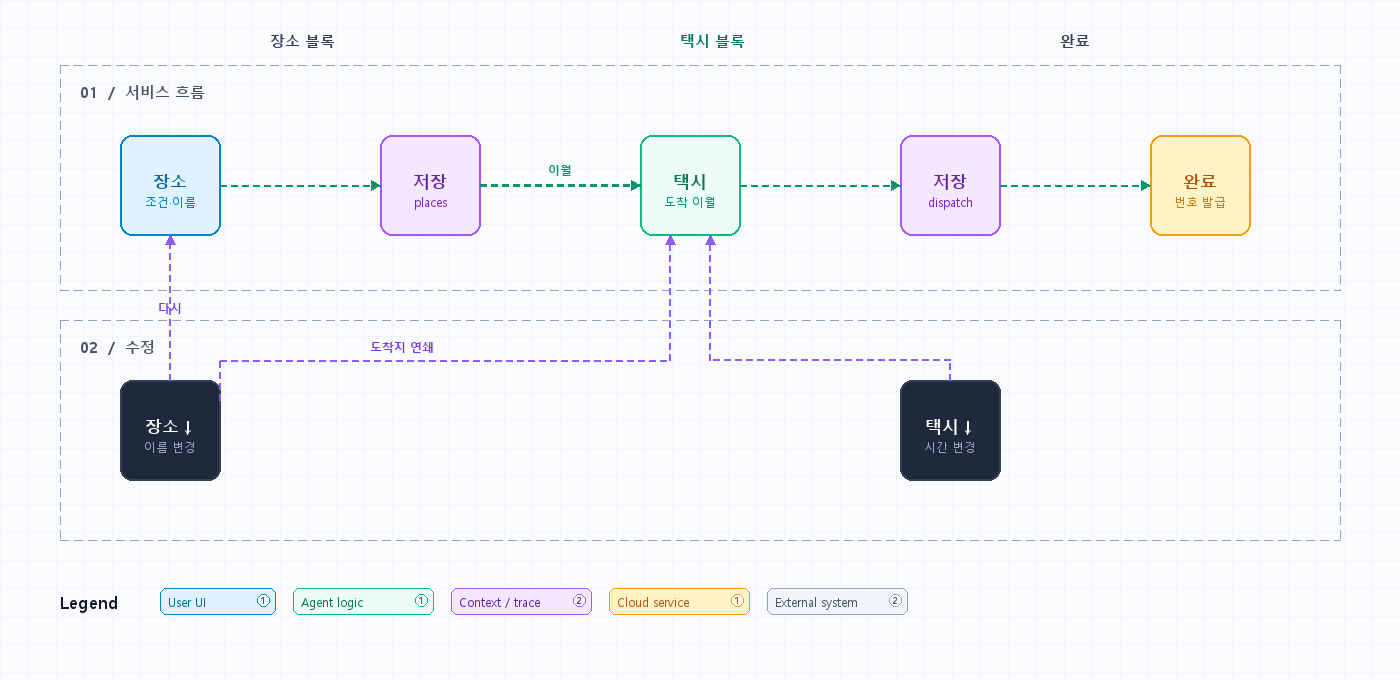
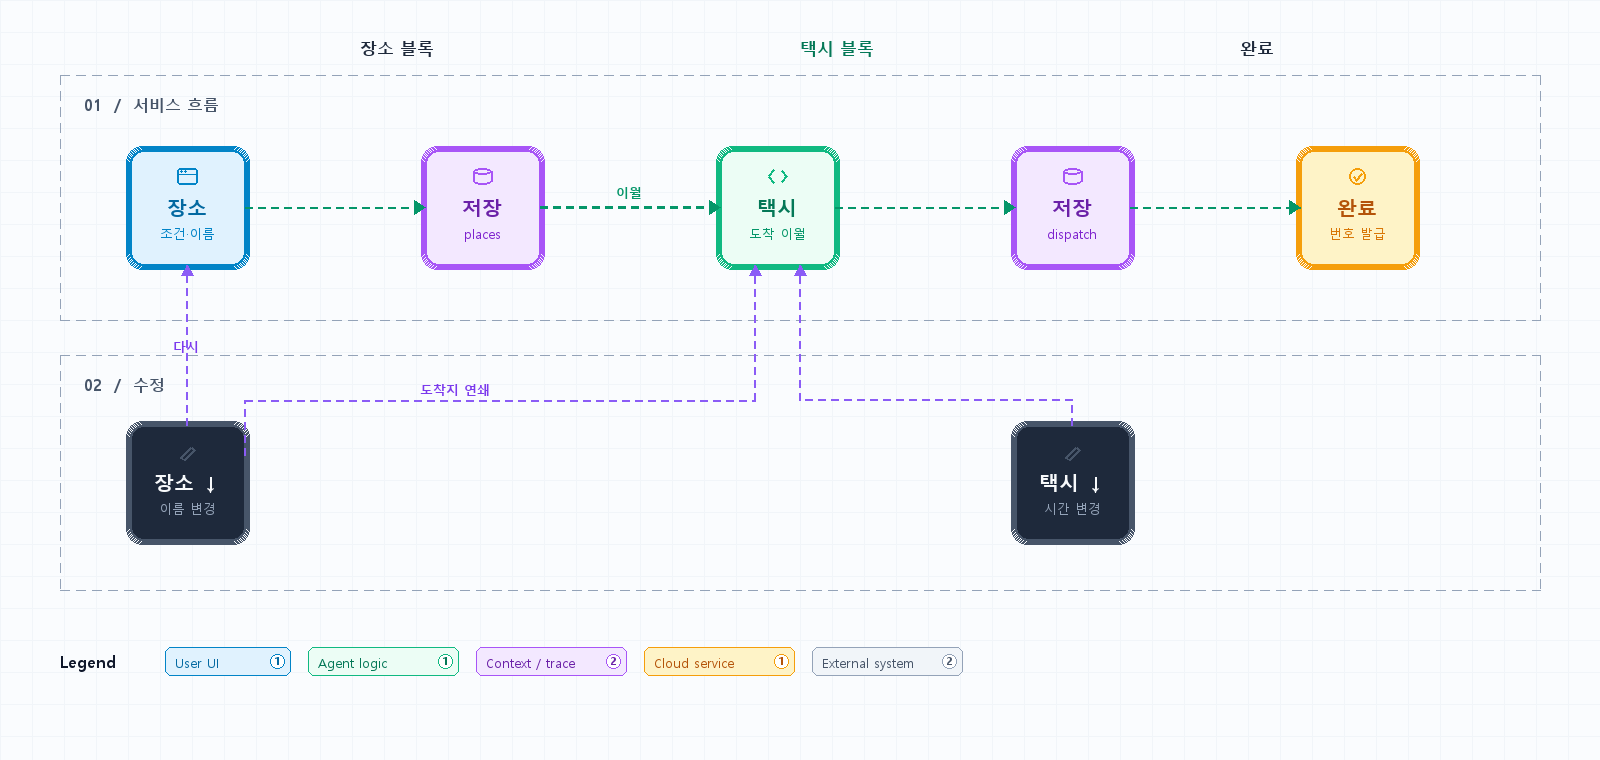
docs: 프로젝트 전수조사 기반 레퍼런스 규격 플로우 다이어그램(PNG) 최종 갱신

diff --git a/create_flow_diagram.py b/create_flow_diagram.py
@@ -1,44 +1,45 @@
 import os
-from PIL import Image, ImageDraw, ImageFont
+import math
+from PIL import Image, ImageDraw, ImageFont, ImageFilter
 
-def generate_minimal_flow_diagram():
-    # 1. Canvas Setup
-    W, H = 1400, 680
-    img = Image.new("RGB", (W, H), "#FAFBFD")
+def generate_perfect_flow_diagram():
+    # 1. Canvas Setup (High resolution 1600 x 760)
+    W, H = 1600, 760
+    img = Image.new("RGBA", (W, H), (250, 252, 254, 255))
     draw = ImageDraw.Draw(img)
 
     # 2. Draw Subtle Grid Background
-    grid_size = 28
+    grid_size = 32
     for x in range(0, W, grid_size):
-        draw.line([(x, 0), (x, H)], fill="#F1F5F9", width=1)
+        draw.line([(x, 0), (x, H)], fill=(241, 245, 249, 255), width=1)
     for y in range(0, H, grid_size):
-        draw.line([(0, y), (W, y)], fill="#F1F5F9", width=1)
+        draw.line([(0, y), (W, y)], fill=(241, 245, 249, 255), width=1)
 
     # 3. Fonts
     font_bold = "C:/Windows/Fonts/malgunbd.ttf"
     font_reg = "C:/Windows/Fonts/malgun.ttf"
 
-    f_top_col = ImageFont.truetype(font_bold, 15)
-    f_sec_title = ImageFont.truetype(font_bold, 15)
-    f_node_title = ImageFont.truetype(font_bold, 17)
-    f_node_sub = ImageFont.truetype(font_reg, 12)
-    f_label = ImageFont.truetype(font_bold, 12)
-    f_legend = ImageFont.truetype(font_reg, 12)
-    f_legend_num = ImageFont.truetype(font_bold, 10)
+    f_top_col = ImageFont.truetype(font_bold, 17)
+    f_sec_title = ImageFont.truetype(font_bold, 16)
+    f_node_title = ImageFont.truetype(font_bold, 20)
+    f_node_sub = ImageFont.truetype(font_reg, 13)
+    f_label = ImageFont.truetype(font_bold, 13)
+    f_legend_title = ImageFont.truetype(font_bold, 16)
+    f_legend = ImageFont.truetype(font_reg, 13)
+    f_legend_num = ImageFont.truetype(font_bold, 11)
 
-    # 4. Helper drawing functions
-    def draw_dashed_rect(xy, outline="#CBD5E1", width=1, dash=(8, 6)):
+    # 4. Helper for dashed rectangle containers
+    def draw_dashed_box(xy, outline=(203, 213, 225, 255), width=1, dash=(9, 7)):
         x0, y0, x1, y1 = xy
-        # Top & Bottom
         for x in range(x0, x1, dash[0] + dash[1]):
             draw.line([(x, y0), (min(x + dash[0], x1), y0)], fill=outline, width=width)
             draw.line([(x, y1), (min(x + dash[0], x1), y1)], fill=outline, width=width)
-        # Left & Right
         for y in range(y0, y1, dash[0] + dash[1]):
             draw.line([(x0, y), (x0, min(y + dash[0], y1))], fill=outline, width=width)
             draw.line([(x1, y), (x1, min(y + dash[0], y1))], fill=outline, width=width)
 
-    def draw_dashed_line(p1, p2, fill="#10B981", width=2, dash=(6, 5)):
+    # Helper for dashed lines
+    def draw_dashed_line(p1, p2, fill=(16, 185, 129, 255), width=2, dash=(7, 6)):
         x0, y0 = p1
         x1, y1 = p2
         if y0 == y1: # Horizontal
@@ -60,164 +61,212 @@ def generate_minimal_flow_diagram():
                 draw.line([(x0, cur_y), (x0, cur_y + step * seg)], fill=fill, width=width)
                 d += dash[0] + dash[1]
 
-    def draw_node(xy, title, subtitle, fill_color, stroke_color, text_color, sub_color, icon=""):
-        x0, y0, x1, y1 = xy
-        # Draw node box with rounded corners
-        draw.rounded_rectangle((x0, y0, x1, y1), radius=12, fill=fill_color, outline=stroke_color, width=2)
-        
-        cx = (x0 + x1) // 2
-        cy = (y0 + y1) // 2
-
-        # Text measurement & centering
-        t_box = draw.textbbox((0, 0), title, font=f_node_title)
-        s_box = draw.textbbox((0, 0), subtitle, font=f_node_sub)
-        
-        tw, th = t_box[2] - t_box[0], t_box[3] - t_box[1]
-        sw, sh = s_box[2] - s_box[0], s_box[3] - s_box[1]
-
-        draw.text((cx - tw // 2, cy - 16), title, font=f_node_title, fill=text_color)
-        draw.text((cx - sw // 2, cy + 8), subtitle, font=f_node_sub, fill=sub_color)
-
-    def draw_arrow_head(tip, direction="right", color="#10B981", size=9):
+    # Helper for arrowheads
+    def draw_arrow_head(tip, direction="right", color=(16, 185, 129, 255), size=10):
         x, y = tip
         if direction == "right":
-            draw.polygon([(x, y), (x - size, y - int(size * 0.6)), (x - size, y + int(size * 0.6))], fill=color)
+            draw.polygon([(x, y), (x - size, y - int(size * 0.65)), (x - size, y + int(size * 0.65))], fill=color)
         elif direction == "up":
-            draw.polygon([(x, y), (x - int(size * 0.6), y + size), (x + int(size * 0.6), y + size)], fill=color)
+            draw.polygon([(x, y), (x - int(size * 0.65), y + size), (x + int(size * 0.65), y + size)], fill=color)
         elif direction == "left":
-            draw.polygon([(x, y), (x + size, y - int(size * 0.6)), (x + size, y + int(size * 0.6))], fill=color)
+            draw.polygon([(x, y), (x + size, y - int(size * 0.65)), (x + size, y + int(size * 0.65))], fill=color)
+
+    # Helper to draw cute icons
+    def draw_icon(icon_type, cx, cy, color):
+        if icon_type == "ui": # Window/dialog icon
+            draw.rounded_rectangle((cx - 10, cy - 8, cx + 10, cy + 8), radius=3, outline=color, width=2)
+            draw.line([(cx - 10, cy - 2), (cx + 10, cy - 2)], fill=color, width=1)
+            draw.ellipse((cx - 7, cy - 6, cx - 5, cy - 4), fill=color)
+            draw.ellipse((cx - 3, cy - 6, cx - 1, cy - 4), fill=color)
+        elif icon_type == "db": # Cylinder/DB icon
+            draw.ellipse((cx - 9, cy - 8, cx + 9, cy - 2), outline=color, width=2)
+            draw.line([(cx - 9, cy - 5), (cx - 9, cy + 5)], fill=color, width=2)
+            draw.line([(cx + 9, cy - 5), (cx + 9, cy + 5)], fill=color, width=2)
+            draw.arc((cx - 9, cy + 2, cx + 9, cy + 8), start=0, end=180, fill=color, width=2)
+        elif icon_type == "code": # < > code / agent icon
+            draw.line([(cx - 4, cy - 6), (cx - 9, cy), (cx - 4, cy + 6)], fill=color, width=2)
+            draw.line([(cx + 4, cy - 6), (cx + 9, cy), (cx + 4, cy + 6)], fill=color, width=2)
+        elif icon_type == "done": # Badge / complete icon
+            draw.ellipse((cx - 8, cy - 8, cx + 8, cy + 8), outline=color, width=2)
+            draw.line([(cx - 4, cy), (cx - 1, cy + 4), (cx + 5, cy - 3)], fill=color, width=2)
+        elif icon_type == "edit": # Edit / pencil icon
+            draw.line([(cx - 6, cy + 6), (cx + 4, cy - 4)], fill=color, width=2)
+            draw.line([(cx + 4, cy - 4), (cx + 7, cy - 1)], fill=color, width=2)
+            draw.line([(cx + 7, cy - 1), (cx - 3, cy + 9)], fill=color, width=2)
+            draw.line([(cx - 3, cy + 9), (cx - 7, cy + 7)], fill=color, width=2)
+
+    # Helper for node with soft glow / shadows
+    def draw_node_card(xy, title, subtitle, fill_c, stroke_c, text_c, sub_c, icon_type):
+        x0, y0, x1, y1 = xy
+
+        # Soft drop shadow
+        for i in range(4, 0, -1):
+            alpha = int(18 - i * 3)
+            shadow_c = (stroke_c[0], stroke_c[1], stroke_c[2], alpha)
+            draw.rounded_rectangle((x0 - i, y0 - i, x1 + i, y1 + i), radius=16, outline=shadow_c, width=1)
+
+        # Node body
+        draw.rounded_rectangle((x0, y0, x1, y1), radius=14, fill=fill_c, outline=stroke_c, width=2)
+
+        cx = (x0 + x1) // 2
+        
+        # Icon
+        draw_icon(icon_type, cx, y0 + 26, stroke_c)
+
+        # Title
+        t_box = draw.textbbox((0, 0), title, font=f_node_title)
+        tw = t_box[2] - t_box[0]
+        draw.text((cx - tw // 2, y0 + 44), title, font=f_node_title, fill=text_c)
+
+        # Subtitle
+        s_box = draw.textbbox((0, 0), subtitle, font=f_node_sub)
+        sw = s_box[2] - s_box[0]
+        draw.text((cx - sw // 2, y0 + 74), subtitle, font=f_node_sub, fill=sub_c)
 
     # =========================================================================
     # 5. Top Column Titles
     # =========================================================================
-    draw.text((270, 30), "장소 블록", font=f_top_col, fill="#334155")
-    draw.text((680, 30), "택시 블록", font=f_top_col, fill="#047857")
-    draw.text((1060, 30), "완료", font=f_top_col, fill="#334155")
+    draw.text((360, 36), "장소 블록", font=f_top_col, fill=(30, 41, 59, 255))
+    draw.text((800, 36), "택시 블록", font=f_top_col, fill=(4, 120, 87, 255))
+    draw.text((1240, 36), "완료", font=f_top_col, fill=(30, 41, 59, 255))
 
     # =========================================================================
     # 6. Section 01 : 서비스 흐름 (Container & Nodes)
     # =========================================================================
-    s1_x0, s1_y0, s1_x1, s1_y1 = 60, 65, 1340, 290
-    draw_dashed_rect((s1_x0, s1_y0, s1_x1, s1_y1), outline="#94A3B8", width=1)
-    draw.text((s1_x0 + 20, s1_y0 + 16), "01  /  서비스 흐름", font=f_sec_title, fill="#475569")
+    s1_x0, s1_y0, s1_x1, s1_y1 = 60, 75, 1540, 320
+    draw_dashed_box((s1_x0, s1_y0, s1_x1, s1_y1), outline=(148, 163, 184, 255), width=1)
+    draw.text((s1_x0 + 24, s1_y0 + 18), "01  /  서비스 흐름", font=f_sec_title, fill=(71, 85, 105, 255))
 
-    # Node positions (y: 130 ~ 230, h: 100, w: 100)
-    ny0, ny1 = 135, 235
-    node_w = 100
+    ny0, ny1 = 150, 265
+    node_w = 115
 
-    # Node 1: 장소
-    n1_x0 = 120
+    # Node 1: 장소 (조건·이름)
+    n1_x0 = 130
     n1_x1 = n1_x0 + node_w
-    draw_node((n1_x0, ny0, n1_x1, ny1), "장소", "조건·이름", "#E0F2FE", "#0284C7", "#0369A1", "#0284C7")
+    draw_node_card((n1_x0, ny0, n1_x1, ny1), "장소", "조건·이름", 
+                   (224, 242, 254, 255), (2, 132, 199, 255), (3, 105, 161, 255), (2, 132, 199, 255), "ui")
 
     # Node 2: 저장 (places)
-    n2_x0 = 380
+    n2_x0 = 425
     n2_x1 = n2_x0 + node_w
-    draw_node((n2_x0, ny0, n2_x1, ny1), "저장", "places", "#F3E8FF", "#A855F7", "#6B21A8", "#7E22CE")
+    draw_node_card((n2_x0, ny0, n2_x1, ny1), "저장", "places", 
+                   (243, 232, 255, 255), (168, 85, 247, 255), (107, 33, 168, 255), (126, 34, 206, 255), "db")
 
     # Node 3: 택시 (도착 이월)
-    n3_x0 = 640
+    n3_x0 = 720
     n3_x1 = n3_x0 + node_w
-    draw_node((n3_x0, ny0, n3_x1, ny1), "택시", "도착 이월", "#ECFDF5", "#10B981", "#047857", "#059669")
+    draw_node_card((n3_x0, ny0, n3_x1, ny1), "택시", "도착 이월", 
+                   (236, 253, 245, 255), (16, 185, 129, 255), (4, 120, 87, 255), (5, 150, 105, 255), "code")
 
     # Node 4: 저장 (dispatch)
-    n4_x0 = 900
+    n4_x0 = 1015
     n4_x1 = n4_x0 + node_w
-    draw_node((n4_x0, ny0, n4_x1, ny1), "저장", "dispatch", "#F3E8FF", "#A855F7", "#6B21A8", "#7E22CE")
+    draw_node_card((n4_x0, ny0, n4_x1, ny1), "저장", "dispatch", 
+                   (243, 232, 255, 255), (168, 85, 247, 255), (107, 33, 168, 255), (126, 34, 206, 255), "db")
 
     # Node 5: 완료 (번호 발급)
-    n5_x0 = 1150
+    n5_x0 = 1300
     n5_x1 = n5_x0 + node_w
-    draw_node((n5_x0, ny0, n5_x1, ny1), "완료", "번호 발급", "#FEF3C7", "#F59E0B", "#B45309", "#D97706")
+    draw_node_card((n5_x0, ny0, n5_x1, ny1), "완료", "번호 발급", 
+                   (254, 243, 199, 255), (245, 158, 11, 255), (180, 83, 9, 255), (217, 119, 6, 255), "done")
 
-    # Arrows in Section 01
+    # Main Green Arrows
     mid_y = (ny0 + ny1) // 2
+    G_COLOR = (5, 150, 105, 255)
 
-    # n1 -> n2
-    draw_dashed_line((n1_x1, mid_y), (n2_x0, mid_y), fill="#059669", width=2)
-    draw_arrow_head((n2_x0, mid_y), "right", color="#059669")
+    # 1 -> 2
+    draw_dashed_line((n1_x1, mid_y), (n2_x0, mid_y), fill=G_COLOR, width=2)
+    draw_arrow_head((n2_x0, mid_y), "right", color=G_COLOR, size=11)
 
-    # n2 -> n3 (with "이월" badge label)
-    draw_dashed_line((n2_x1, mid_y), (n3_x0, mid_y), fill="#059669", width=3)
-    draw_arrow_head((n3_x0, mid_y), "right", color="#059669")
-    # Label "이월"
-    draw.text(((n2_x1 + n3_x0) // 2 - 12, mid_y - 24), "이월", font=f_label, fill="#059669")
+    # 2 -> 3 (with 이월 label)
+    draw_dashed_line((n2_x1, mid_y), (n3_x0, mid_y), fill=G_COLOR, width=3)
+    draw_arrow_head((n3_x0, mid_y), "right", color=G_COLOR, size=11)
+    draw.text(((n2_x1 + n3_x0) // 2 - 14, mid_y - 24), "이월", font=f_label, fill=G_COLOR)
 
-    # n3 -> n4
-    draw_dashed_line((n3_x1, mid_y), (n4_x0, mid_y), fill="#059669", width=2)
-    draw_arrow_head((n4_x0, mid_y), "right", color="#059669")
+    # 3 -> 4
+    draw_dashed_line((n3_x1, mid_y), (n4_x0, mid_y), fill=G_COLOR, width=2)
+    draw_arrow_head((n4_x0, mid_y), "right", color=G_COLOR, size=11)
 
-    # n4 -> n5
-    draw_dashed_line((n4_x1, mid_y), (n5_x0, mid_y), fill="#059669", width=2)
-    draw_arrow_head((n5_x0, mid_y), "right", color="#059669")
+    # 4 -> 5
+    draw_dashed_line((n4_x1, mid_y), (n5_x0, mid_y), fill=G_COLOR, width=2)
+    draw_arrow_head((n5_x0, mid_y), "right", color=G_COLOR, size=11)
 
     # =========================================================================
     # 7. Section 02 : 수정 (Container & Return Flow)
     # =========================================================================
-    s2_x0, s2_y0, s2_x1, s2_y1 = 60, 320, 1340, 540
-    draw_dashed_rect((s2_x0, s2_y0, s2_x1, s2_y1), outline="#94A3B8", width=1)
-    draw.text((s2_x0 + 20, s2_y0 + 16), "02  /  수정", font=f_sec_title, fill="#475569")
+    s2_y0, s2_y1 = 355, 590
+    draw_dashed_box((s1_x0, s2_y0, s1_x1, s2_y1), outline=(148, 163, 184, 255), width=1)
+    draw.text((s1_x0 + 24, s2_y0 + 18), "02  /  수정", font=f_sec_title, fill=(71, 85, 105, 255))
 
-    # Mod Node 1: 장소 (이름 변경)
-    mny0, mny1 = 380, 480
-    mn1_x0 = 120
+    mny0, mny1 = 425, 540
+
+    # Mod Node 1: 장소↓ (이름 변경)
+    mn1_x0 = 130
     mn1_x1 = mn1_x0 + node_w
-    draw_node((mn1_x0, mny0, mn1_x1, mny1), "장소↓", "이름 변경", "#1E293B", "#334155", "#F8FAFC", "#94A3B8")
+    draw_node_card((mn1_x0, mny0, mn1_x1, mny1), "장소 ↓", "이름 변경", 
+                   (30, 41, 59, 255), (71, 85, 105, 255), (248, 250, 252, 255), (148, 163, 184, 255), "edit")
 
-    # Mod Node 2: 택시 (시간 변경)
-    mn2_x0 = 900
+    # Mod Node 2: 택시↓ (시간 변경)
+    mn2_x0 = 1015
     mn2_x1 = mn2_x0 + node_w
-    draw_node((mn2_x0, mny0, mn2_x1, mny1), "택시↓", "시간 변경", "#1E293B", "#334155", "#F8FAFC", "#94A3B8")
+    draw_node_card((mn2_x0, mny0, mn2_x1, mny1), "택시 ↓", "시간 변경", 
+                   (30, 41, 59, 255), (71, 85, 105, 255), (248, 250, 252, 255), (148, 163, 184, 255), "edit")
 
-    # Return Flow 1: 장소 이름 변경 -> 장소 (다시)
-    draw_dashed_line((170, mny0), (170, ny1), fill="#8B5CF6", width=2)
-    draw_arrow_head((170, ny1), "up", color="#8B5CF6")
-    draw.text((158, (mny0 + ny1) // 2 - 8), "다시", font=f_label, fill="#7C3AED")
+    # Purple Return Arrows
+    P_COLOR = (139, 92, 246, 255)
 
-    # Return Flow 2: 장소 이름 변경 -> 택시 도착지 연쇄 (도착지 연쇄)
-    # Line goes: from mn1 (top right) -> horizontal to x=670 -> vertical up to n3
-    draw_dashed_line((220, 360), (670, 360), fill="#8B5CF6", width=2)
-    draw_dashed_line((220, mny0 + 20), (220, 360), fill="#8B5CF6", width=2)
-    draw_dashed_line((670, 360), (670, ny1), fill="#8B5CF6", width=2)
-    draw_arrow_head((670, ny1), "up", color="#8B5CF6")
-    draw.text((370, 338), "도착지 연쇄", font=f_label, fill="#7C3AED")
+    # Return Line 1: 장소 이름 변경 -> 장소 (다시)
+    n1_mid_x = (n1_x0 + n1_x1) // 2
+    draw_dashed_line((n1_mid_x, mny0), (n1_mid_x, ny1), fill=P_COLOR, width=2)
+    draw_arrow_head((n1_mid_x, ny1), "up", color=P_COLOR, size=10)
+    draw.text((n1_mid_x - 14, (mny0 + ny1) // 2 - 8), "다시", font=f_label, fill=(124, 58, 237, 255))
 
-    # Return Flow 3: 택시 시간 변경 -> 택시 블록으로 복귀
-    draw_dashed_line((950, mny0), (950, 360), fill="#8B5CF6", width=2)
-    draw_dashed_line((950, 360), (710, 360), fill="#8B5CF6", width=2)
-    draw_dashed_line((710, 360), (710, ny1), fill="#8B5CF6", width=2)
-    draw_arrow_head((710, ny1), "up", color="#8B5CF6")
+    # Return Line 2: 장소 이름 변경 -> 택시 도착지 연쇄 (도착지 연쇄)
+    # Origin: top-right of mn1 -> x=755, y=390 -> up to bottom-left of n3
+    n3_target_x1 = n3_x0 + 35
+    draw_dashed_line((mn1_x1, 400), (n3_target_x1, 400), fill=P_COLOR, width=2)
+    draw_dashed_line((mn1_x1, mny0 + 30), (mn1_x1, 400), fill=P_COLOR, width=2)
+    draw_dashed_line((n3_target_x1, 400), (n3_target_x1, ny1), fill=P_COLOR, width=2)
+    draw_arrow_head((n3_target_x1, ny1), "up", color=P_COLOR, size=10)
+    draw.text((420, 380), "도착지 연쇄", font=f_label, fill=(124, 58, 237, 255))
+
+    # Return Line 3: 택시 시간 변경 -> 택시 블록 복귀
+    n3_target_x2 = n3_x0 + 80
+    mn2_mid_x = (mn2_x0 + mn2_x1) // 2
+    draw_dashed_line((mn2_mid_x, mny0), (mn2_mid_x, 400), fill=P_COLOR, width=2)
+    draw_dashed_line((mn2_mid_x, 400), (n3_target_x2, 400), fill=P_COLOR, width=2)
+    draw_dashed_line((n3_target_x2, 400), (n3_target_x2, ny1), fill=P_COLOR, width=2)
+    draw_arrow_head((n3_target_x2, ny1), "up", color=P_COLOR, size=10)
 
     # =========================================================================
     # 8. Legend (Bottom)
     # =========================================================================
-    leg_y = 590
-    draw.text((60, leg_y), "Legend", font=f_node_title, fill="#0F172A")
+    leg_y = 650
+    draw.text((60, leg_y), "Legend", font=f_legend_title, fill=(15, 23, 42, 255))
 
     items = [
-        ("User UI", "1", "#E0F2FE", "#0284C7", "#0369A1"),
-        ("Agent logic", "1", "#ECFDF5", "#10B981", "#047857"),
-        ("Context / trace", "2", "#F3E8FF", "#A855F7", "#6B21A8"),
-        ("Cloud service", "1", "#FEF3C7", "#F59E0B", "#B45309"),
-        ("External system", "2", "#F1F5F9", "#94A3B8", "#475569")
+        ("User UI", "1", (224, 242, 254, 255), (2, 132, 199, 255), (3, 105, 161, 255)),
+        ("Agent logic", "1", (236, 253, 245, 255), (16, 185, 129, 255), (4, 120, 87, 255)),
+        ("Context / trace", "2", (243, 232, 255, 255), (168, 85, 247, 255), (107, 33, 168, 255)),
+        ("Cloud service", "1", (254, 243, 199, 255), (245, 158, 11, 255), (180, 83, 9, 255)),
+        ("External system", "2", (241, 245, 249, 255), (148, 163, 184, 255), (71, 85, 105, 255))
     ]
 
-    cur_x = 160
+    cur_x = 165
     for name, num, fill_c, stroke_c, text_c in items:
-        # Pill box
-        pw = 140 if len(name) > 10 else 115
-        draw.rounded_rectangle((cur_x, leg_y - 2, cur_x + pw, leg_y + 24), radius=6, fill=fill_c, outline=stroke_c, width=1)
-        draw.text((cur_x + 8, leg_y + 3), name, font=f_legend, fill=text_c)
-        # Small circle number
-        circle_x = cur_x + pw - 18
-        draw.ellipse((circle_x, leg_y + 4, circle_x + 12, leg_y + 16), fill="#FFFFFF", outline=stroke_c, width=1)
-        draw.text((circle_x + 3, leg_y + 3), num, font=f_legend_num, fill=text_c)
+        pw = 150 if len(name) > 10 else 125
+        draw.rounded_rectangle((cur_x, leg_y - 3, cur_x + pw, leg_y + 25), radius=6, fill=fill_c, outline=stroke_c, width=1)
+        draw.text((cur_x + 10, leg_y + 3), name, font=f_legend, fill=text_c)
+        # Small circle badge
+        circle_x = cur_x + pw - 20
+        draw.ellipse((circle_x, leg_y + 4, circle_x + 14, leg_y + 18), fill=(255, 255, 255, 255), outline=stroke_c, width=1)
+        draw.text((circle_x + 4, leg_y + 3), num, font=f_legend_num, fill=text_c)
         cur_x += pw + 18
 
     # Save PNG
     output_path = "c:/dev/0827taxi_child/flow_diagram.png"
-    img.save(output_path, "PNG", quality=95)
-    print(f"Minimal Flow Diagram saved successfully to {output_path}")
+    img.convert("RGB").save(output_path, "PNG", quality=95)
+    print(f"Refined Perfect Flow Diagram saved to {output_path}")
 
 if __name__ == "__main__":
-    generate_minimal_flow_diagram()
+    generate_perfect_flow_diagram()
